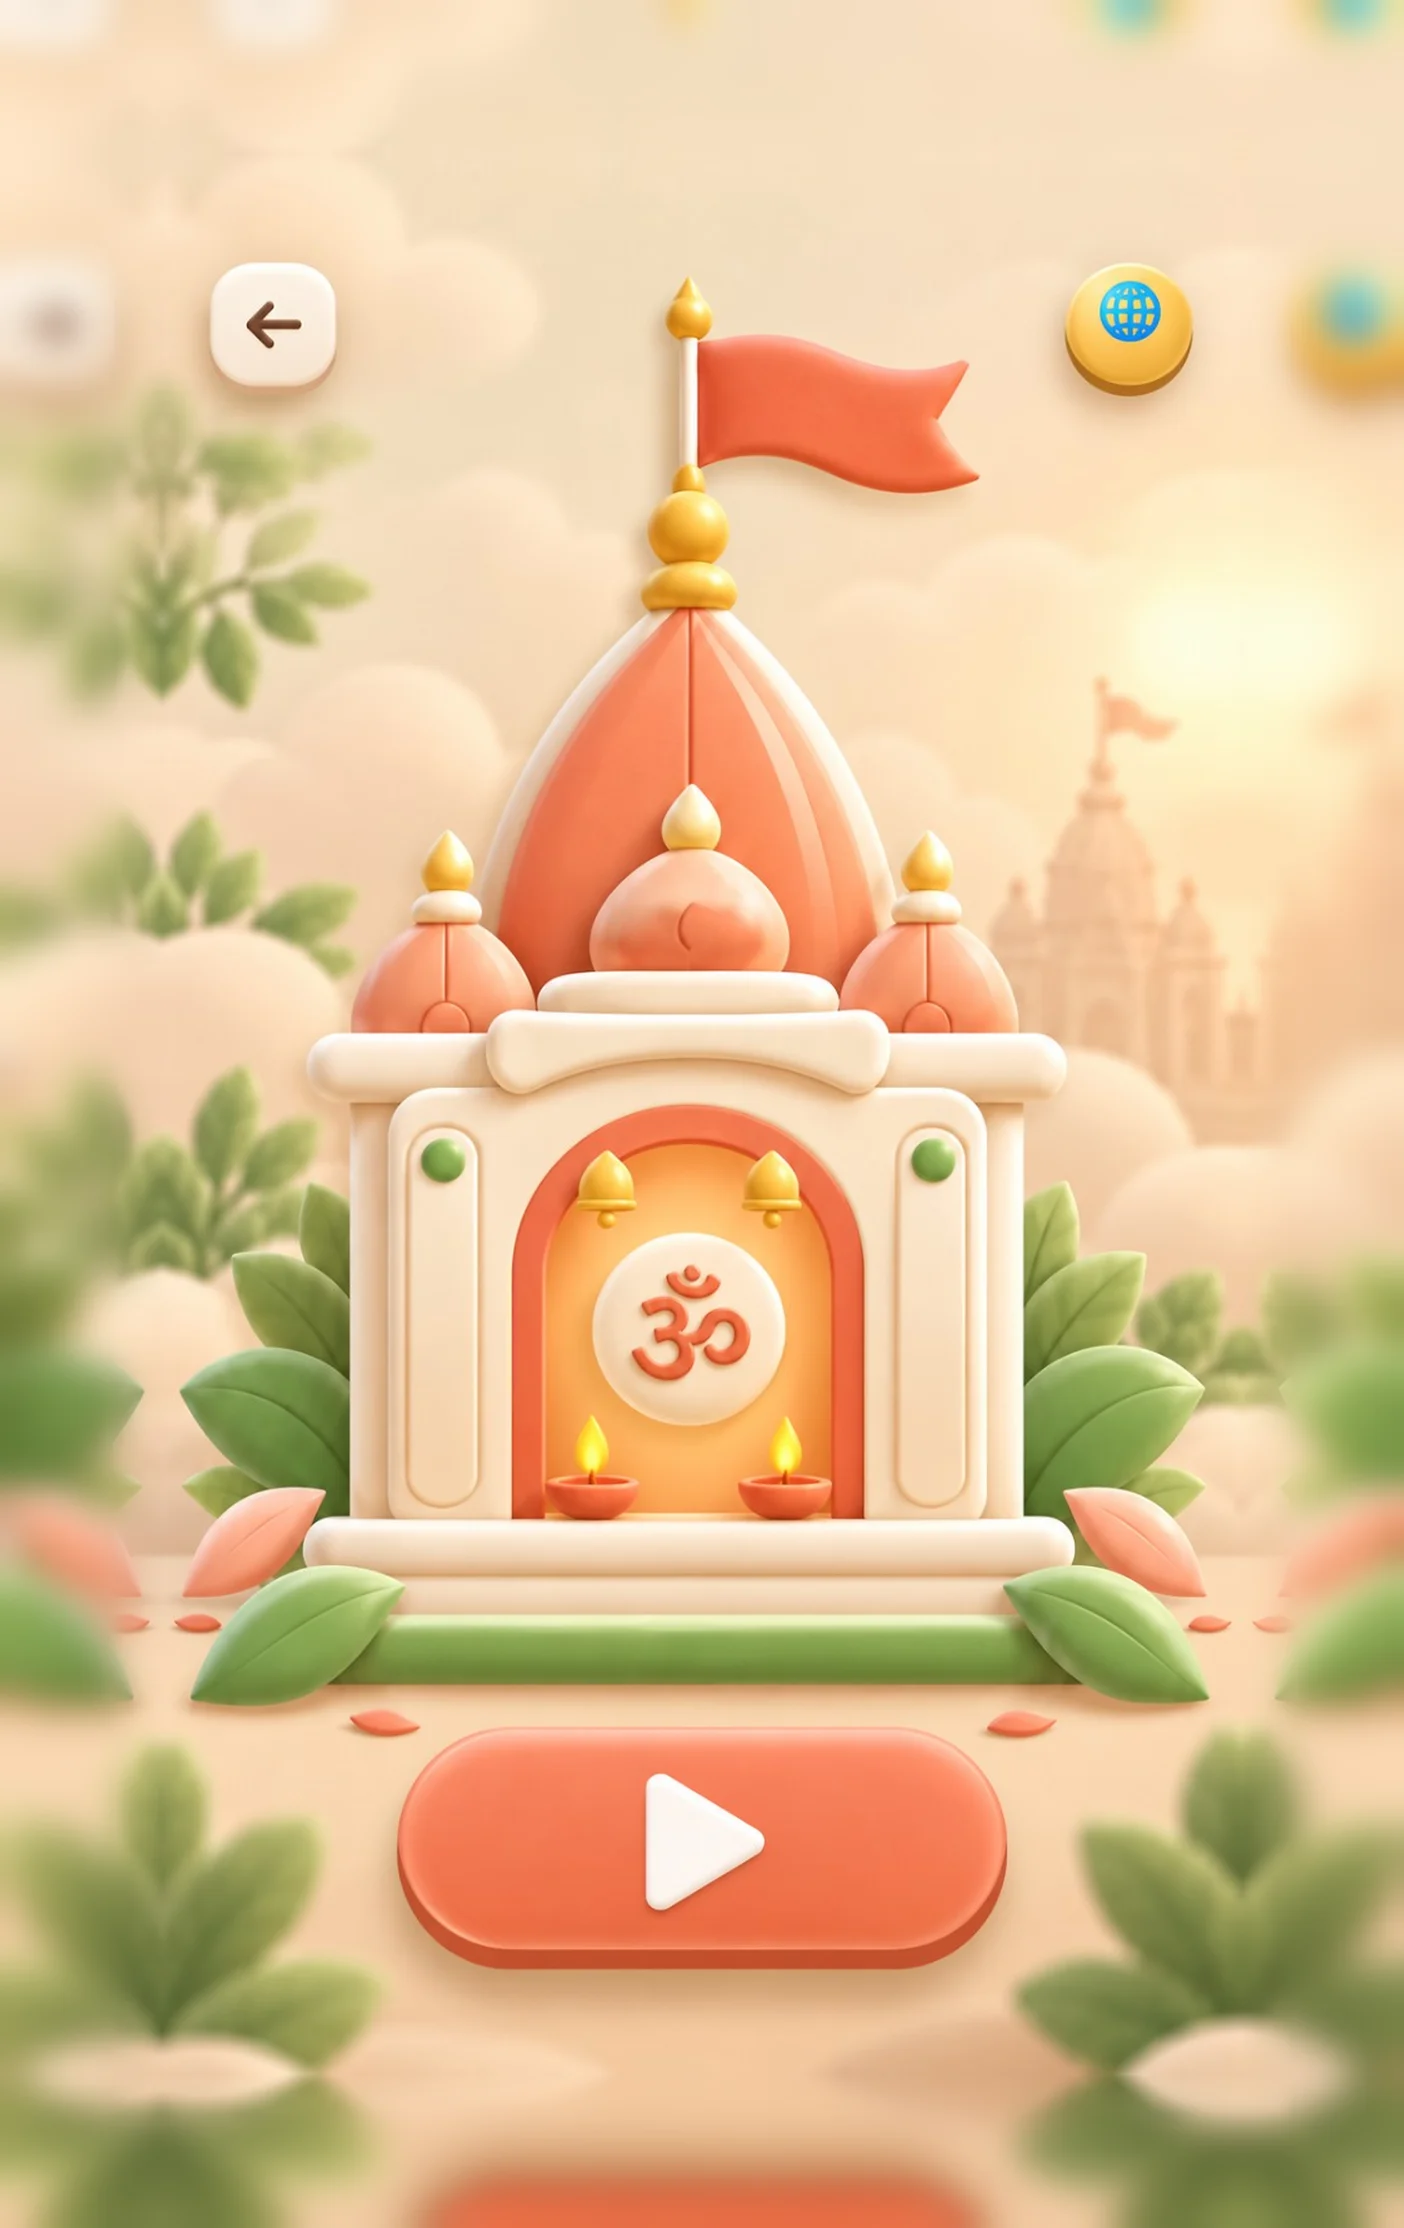
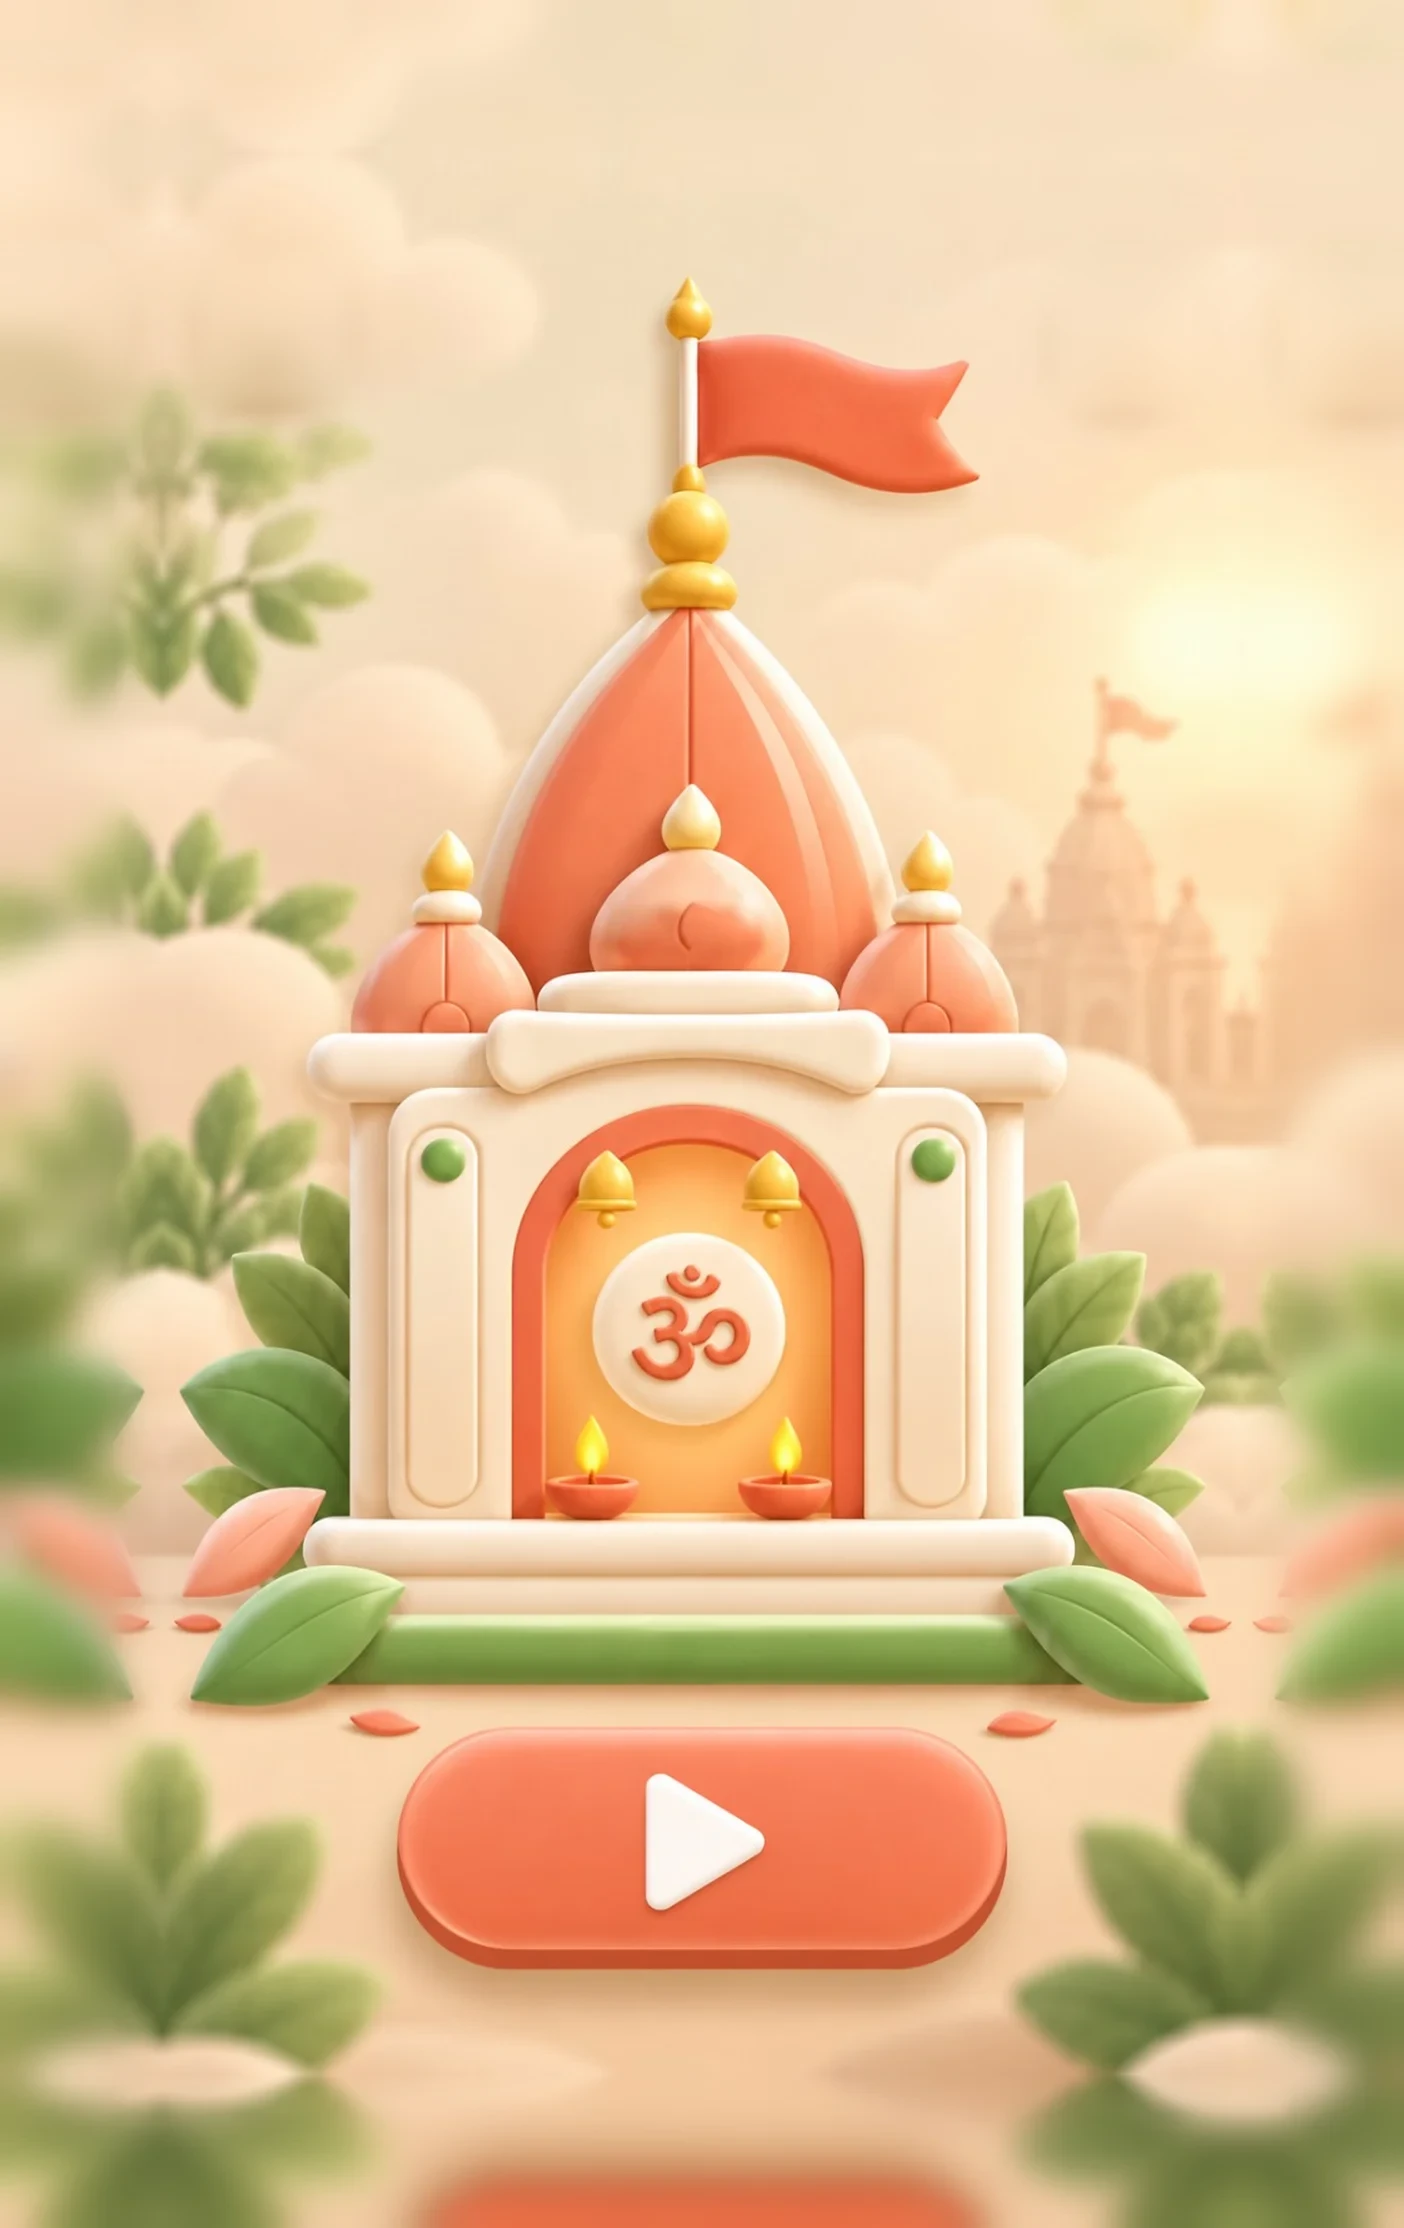
પ્રિવ્યૂ: મંદિર પાને Back અને ભાષા બટન હબની જગ્યાએ ઉપર, ચિત્રમાંથી જૂનાં બટન કાઢ્યાં (sw v77)
Claude-Session: https://claude.ai/code/session_01Utvc1FGM1Xi2zwpZtcegVs

diff --git a/sw.js b/sw.js
@@ -1,5 +1,5 @@
 // સત્સંગ બોક્સ ઑફલાઇન કેશ. પહેલી વાર નેટ સાથે ખૂલે ત્યારે હોમ + બધી ગેમ સચવાય, પછી નેટ વગર ચાલે.
-const C='satsang-box-v76';
+const C='satsang-box-v77';
 const PRE=["./", "antahshatru-vijay/", "dhyan-murti/", "ekadashi/", "charanvidhi/", "charanvidhi/index.html", "fal-ful-memory/", "prashn-leela/", "analytics.js", "auth.js", "themes/adhyatmik/mati/acc.webp", "box.js", "lib/supabase.js", "antahshatru-vijay/index.html", "apple-touch-icon.png", "clay.css", "dhyan-murti/assets/back.webp", "dhyan-murti/assets/front.webp", "dhyan-murti/assets/m_bh.mp3", "dhyan-murti/assets/m_d1.mp3", "dhyan-murti/assets/m_d2.mp3", "dhyan-murti/assets/m_d3.mp3", "dhyan-murti/assets/m_kr.mp3", "dhyan-murti/assets/m_om.mp3", "dhyan-murti/assets/sky/sky01.webp", "dhyan-murti/assets/sky/sky02.webp", "dhyan-murti/assets/sky/sky03.webp", "dhyan-murti/assets/sky/sky04.webp", "dhyan-murti/assets/sky/sky05.webp", "dhyan-murti/assets/sky/sky06.webp", "dhyan-murti/assets/sky/sky07.webp", "dhyan-murti/assets/sky/sky08.webp", "dhyan-murti/assets/sky/sky09.webp", "dhyan-murti/assets/sky/sky10.webp", "dhyan-murti/assets/sky/sky11.webp", "dhyan-murti/assets/sky/sky12.webp", "dhyan-murti/assets/sole.webp", "dhyan-murti/index.html", "dhyan-murti/session2.html", "ekadashi/index.html", "ekadashi/intro-full.webp", "fal-ful-memory/index.html", "fonts/baloo-bhai-2-gujarati-wght-normal.woff2", "fonts/baloo-bhai-2-latin-ext-wght-normal.woff2", "fonts/baloo-bhai-2-latin-wght-normal.woff2", "fonts/fonts.css", "fonts/hind-vadodara-gujarati-500-normal.woff2", "fonts/hind-vadodara-gujarati-600-normal.woff2", "fonts/hind-vadodara-latin-500-normal.woff2", "fonts/hind-vadodara-latin-600-normal.woff2", "fonts/hind-vadodara-latin-ext-500-normal.woff2", "fonts/hind-vadodara-latin-ext-600-normal.woff2", "fonts/noto-sans-gujarati-gujarati-wght-normal.woff2", "fonts/noto-sans-gujarati-latin-ext-wght-normal.woff2", "fonts/noto-sans-gujarati-latin-wght-normal.woff2", "fonts/noto-serif-gujarati-gujarati-wght-normal.woff2", "fonts/noto-serif-gujarati-latin-ext-wght-normal.woff2", "fonts/noto-serif-gujarati-latin-wght-normal.woff2", "fonts/playfair-display-latin-ext-wght-normal.woff2", "fonts/playfair-display-latin-wght-normal.woff2", "icon-192.png", "icon-512.png", "icon-maskable.png", "index.html", "lib/xlsx.full.min.js", "manifest.webmanifest", "privacy.html", "prashn-leela/index.html", "themes/adhyatmik/mati/banner.webp", "themes/classic/kaach/scene.svg", "themes/adhyatmik/mati/bg.webp", "themes/adhyatmik/mati/mandir-full.webp", "themes/adhyatmik/mati/om.webp", "themes/adhyatmik/mati/t1.webp", "themes/adhyatmik/mati/t2.webp", "themes/adhyatmik/mati/t3.webp", "themes/adhyatmik/mati/t4.webp"];
 async function grab(c,u){for(let i=0;i<3;i++){try{const r=await fetch(new Request(u,{cache:'reload'}));if(r.ok){await c.put(u,r);return}}catch(e){}}}
 async function fill(){const c=await caches.open(C);const q=PRE.slice();await Promise.all(Array.from({length:6},async()=>{while(q.length)await grab(c,q.shift())}))}

diff --git a/preview/index.html b/preview/index.html
@@ -112,8 +112,7 @@ html.homef,html.homef body{overflow:hidden;height:100%}
 .mbx::before{content:"";position:absolute;left:-15%;right:-15%;top:-8%;bottom:-8%;background:url(themes/adhyatmik/mati/mandir-full.webp) center/100% 100% no-repeat;pointer-events:none}
 .mhit{position:absolute;border:0;padding:0;margin:0;background:transparent;cursor:pointer;-webkit-tap-highlight-color:transparent;transition:background .12s}
 .mhit:active{background:rgba(255,255,255,.22)}
-.mback{left:4.4%;top:5.75%;width:11.6%;height:6.25%;border-radius:22%}
-.mglobe{left:83.6%;top:5.75%;width:12%;height:6.75%;border-radius:50%}
+.mfull{--u:min(1vw,5.6px)}.mfull>.lng3d{position:absolute;z-index:5;top:calc(var(--u)*3.4);width:calc(var(--u)*11.5);height:calc(var(--u)*11.5)}.mfull>.mtb{left:calc(var(--u)*3);font:800 calc(var(--u)*6.4)/1 system-ui,sans-serif}.mfull>.mtg{right:calc(var(--u)*3)}.mfull>.mtg .le{font-size:calc(var(--u)*5.4)}.mfull>.mtg .ll{font-size:calc(var(--u)*2.5)}
 .mplay2{left:21.8%;top:82%;width:56.4%;height:12.5%;border-radius:99px}
 .mlang{position:absolute;left:50%;top:100%;transform:translate(-50%,-30%);font:800 2.9cqw/1.2 system-ui,sans-serif;color:#5a3524;background:#f6d98b;border-radius:99px;padding:.4cqw 1.6cqw;box-shadow:0 1px 3px rgba(90,53,36,.3)}
 /* V70: સ્ક્રીન બદલાય ત્યારે સરળ ફેડ, ઝબકારો નહીં */
@@ -493,8 +492,8 @@ function inner(t,zid){
 }
 function mandir(t){
   var w=el("div","mand mfull"),bx=el("div","mbx");w.appendChild(bx);
-  var b=el("button","mhit mback");b.type="button";b.setAttribute("aria-label",t.back);b.addEventListener("click",function(){go("")});bx.appendChild(b);
-  var lg=el("button","mhit mglobe");lg.type="button";lg.setAttribute("aria-label","Language");lg.appendChild(el("small","mlang",LAB[L]));lg.addEventListener("click",function(){setLang(O[(O.indexOf(L)+1)%3])});bx.appendChild(lg);
+  var b=el("button","lng3d mtb","←");b.type="button";b.setAttribute("aria-label",t.back);b.addEventListener("click",function(){go("")});w.appendChild(b);
+  w.appendChild(mkLang("mtg"));
   var pb=el("button","mhit mplay2");pb.type="button";pb.id="mgo";pb.setAttribute("aria-label","▶");pb.addEventListener("click",function(){go("z1")});bx.appendChild(pb);
   return w}
 function go(h){
